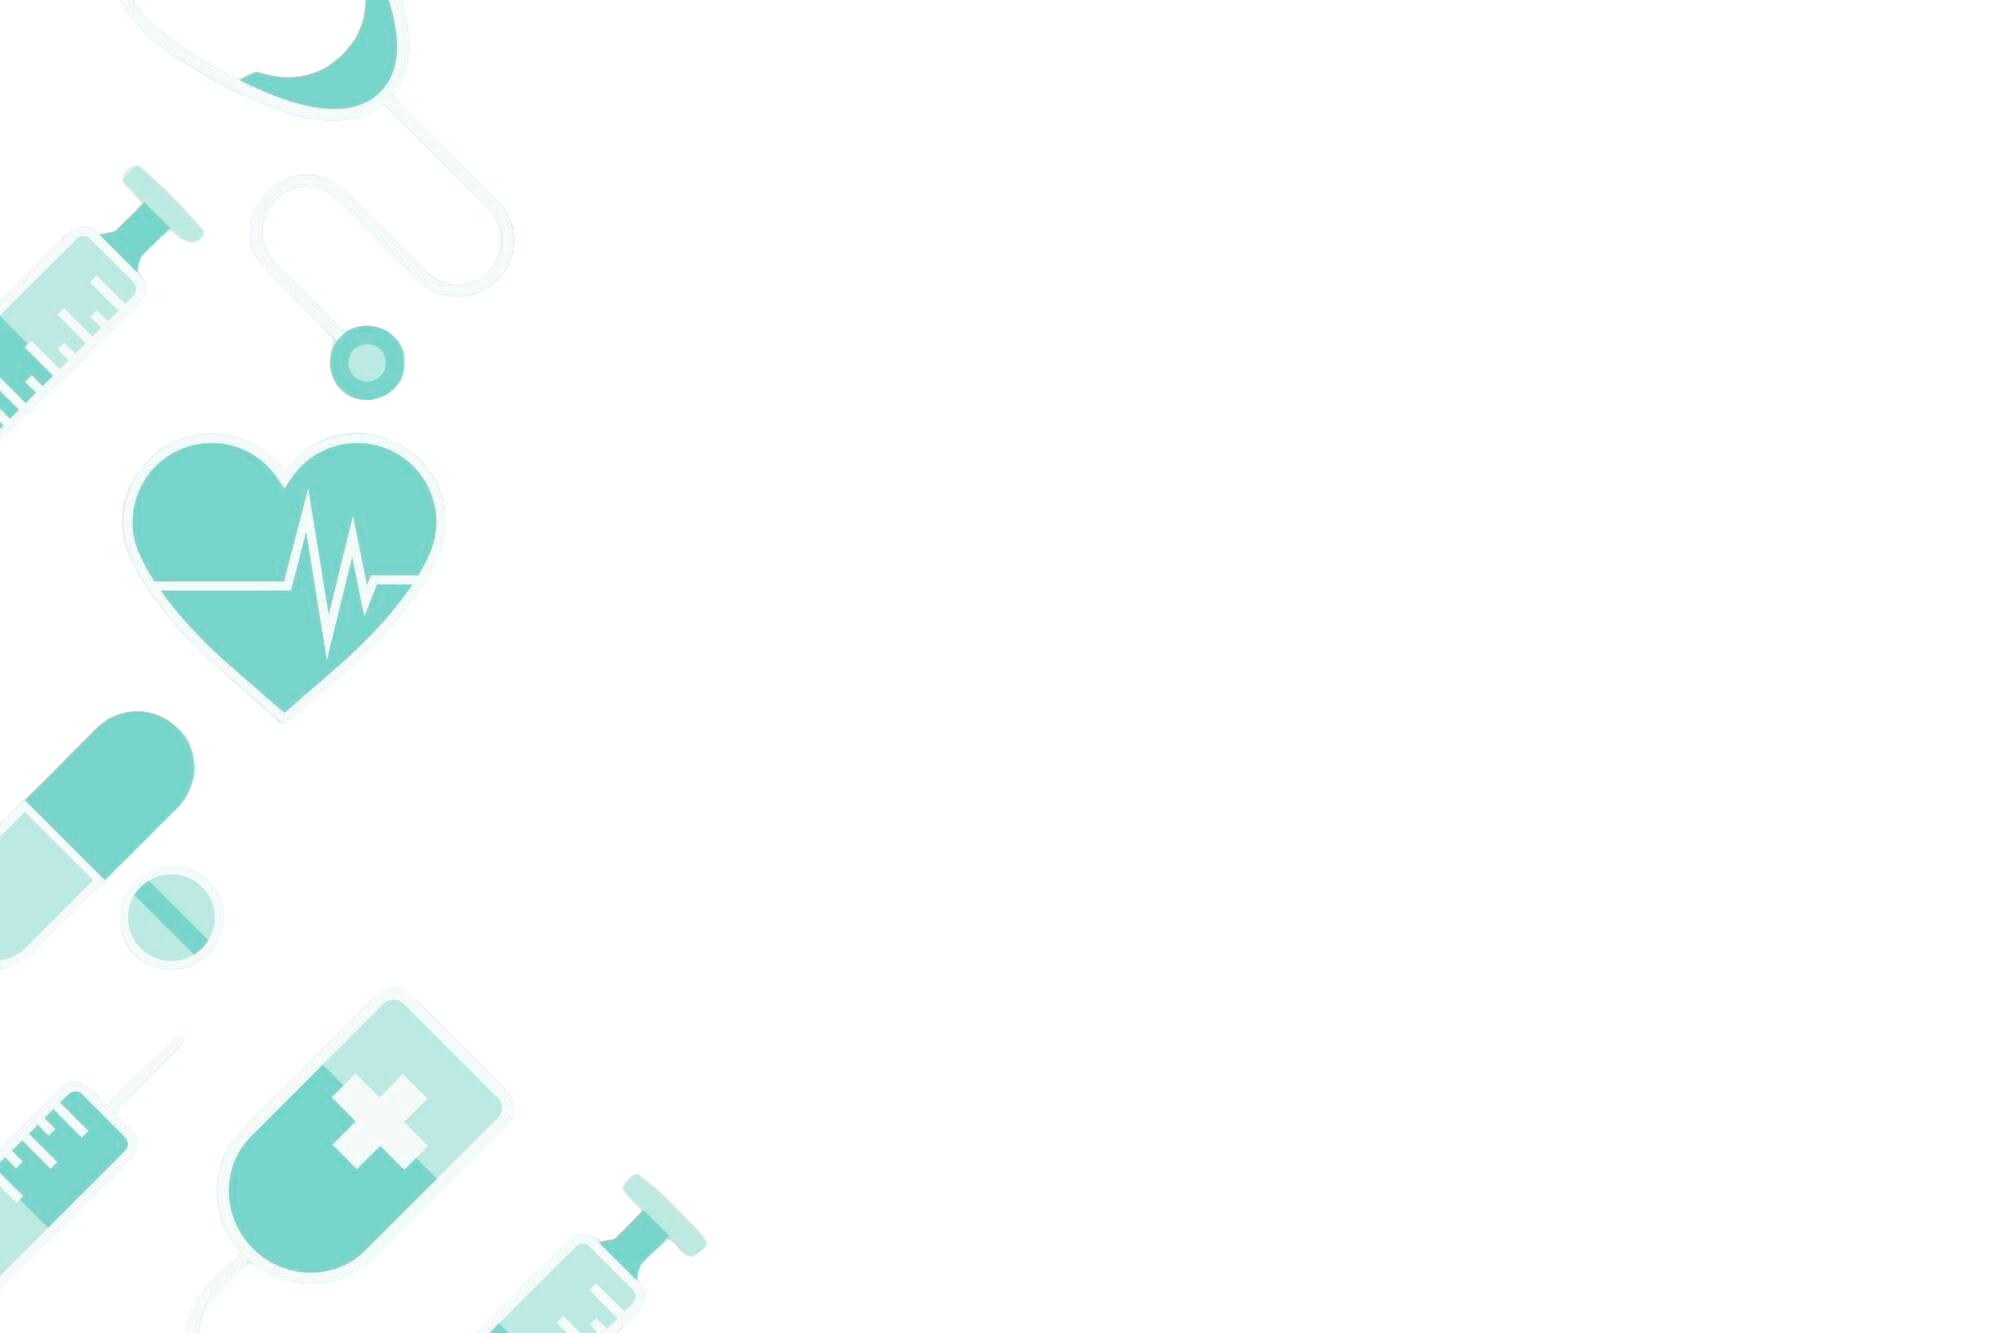
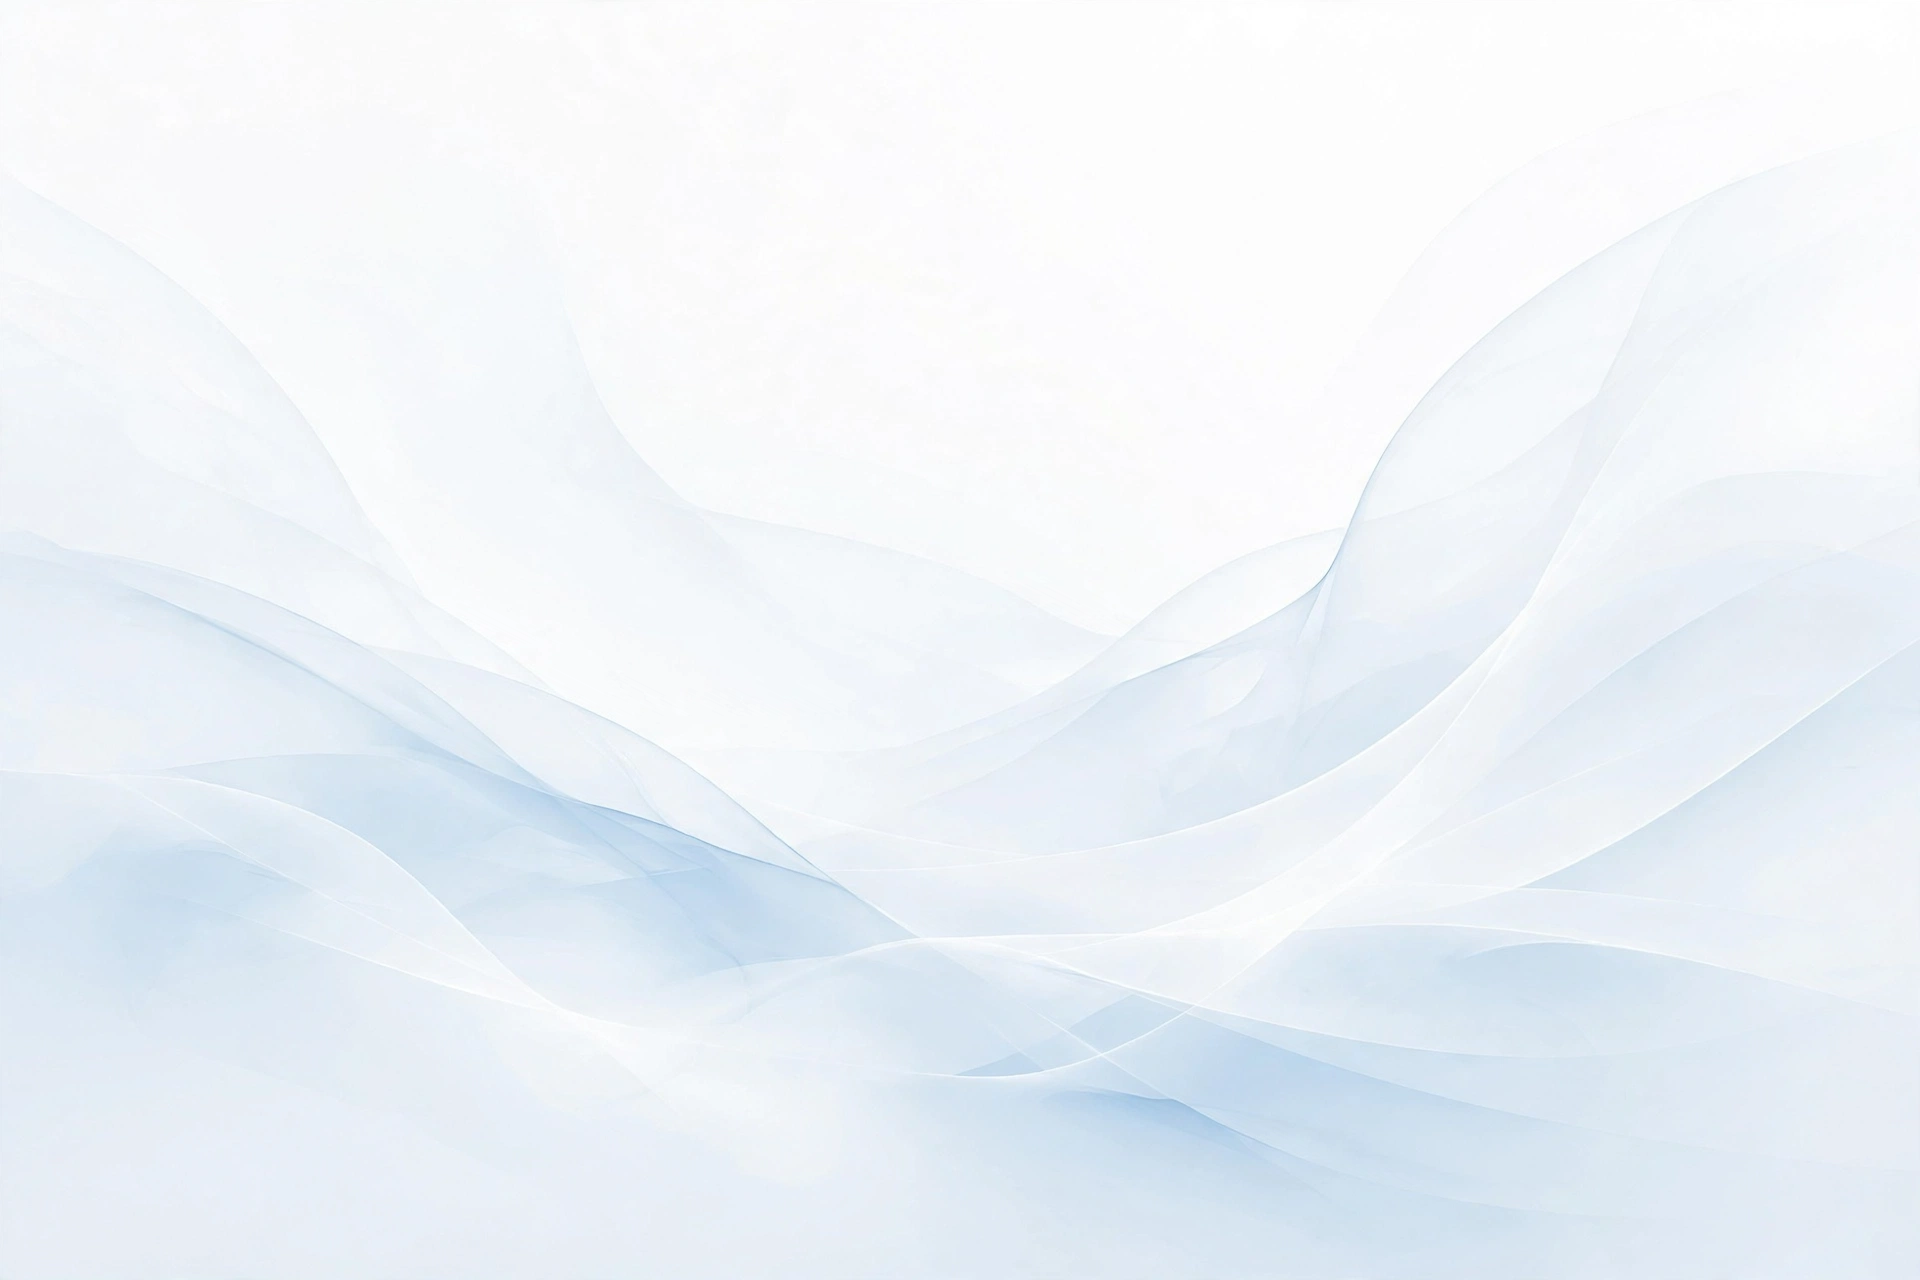
minnor ui fix in setttings page; updated background image

diff --git a/MediSafe/static/MediSafe/css/settings.css b/MediSafe/static/MediSafe/css/settings.css
@@ -37,7 +37,11 @@
       flex-direction: column;
       box-sizing: border-box;
       > div {
-        border-radius: 12px;
+        border-radius: 0px;
+      }
+      > div:last-child {
+        border-bottom-left-radius: 12px;
+        border-bottom-right-radius: 12px;
       }
     }
 
@@ -150,7 +154,9 @@
     justify-content: space-between;
     background-color: #07356312;
     padding: 0.5em 1.4em;
-    border-radius: 14px;
+    border-top-left-radius: 14px;
+    border-top-right-radius: 14px;
+
     > h4 {
       display: flex;
       flex-direction: column;
@@ -196,12 +202,16 @@
   background-color: #fbfbfb;
   box-sizing: border-box;
   padding: 2em 2em;
+  border-top-left-radius: 12px;
+  border-top-right-radius: 12px;
+  border-radius: 0;
   > div {
     display: flex;
     align-items: center;
     justify-content: space-between;
     border: 1px solid #005fb840;
     border-radius: 12px;
+
     box-sizing: border-box;
     padding: 0.5em 1.4em;
     background-color: #005fb808;
@@ -241,6 +251,8 @@
   display: flex;
   justify-content: space-between;
   align-items: center;
+  border-top-left-radius: 0px;
+  border-top-right-radius: 0px;
   > h4 {
     width: 70%;
     font-weight: 700;
